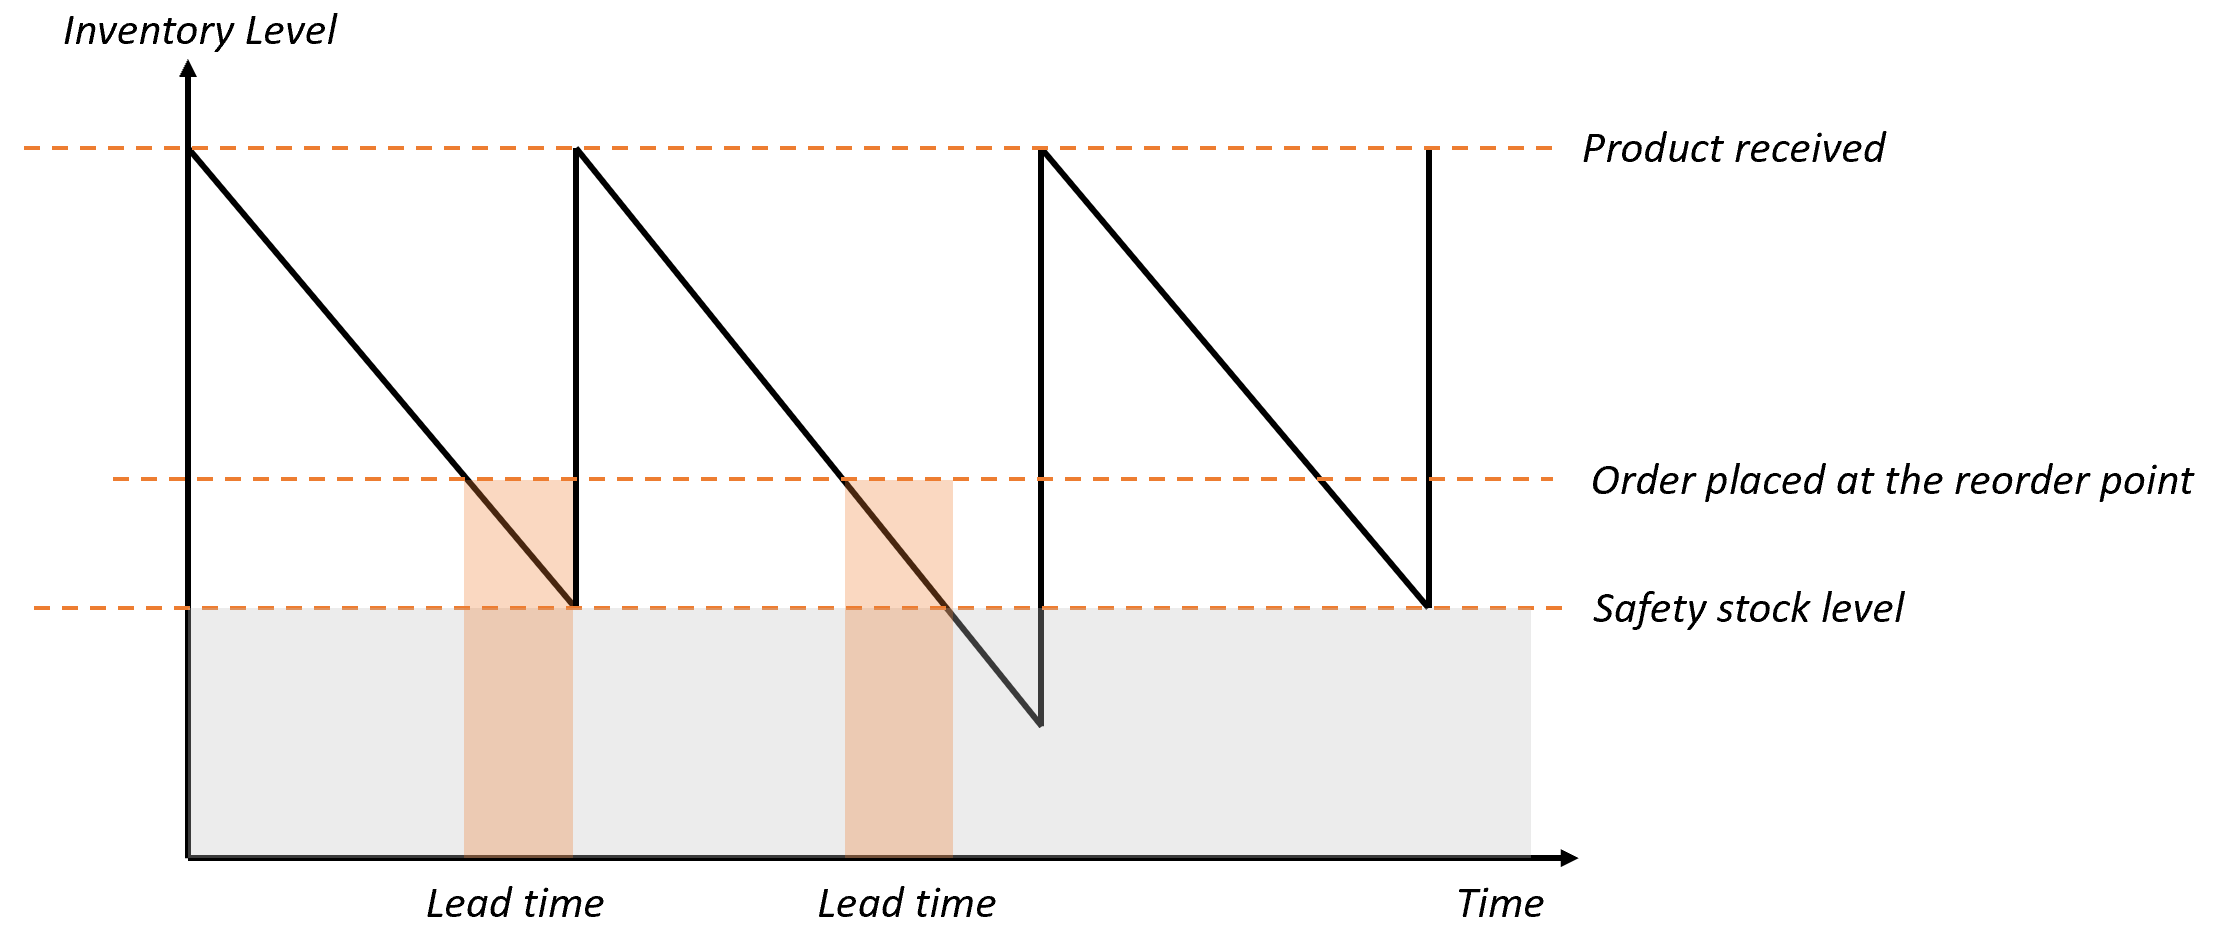
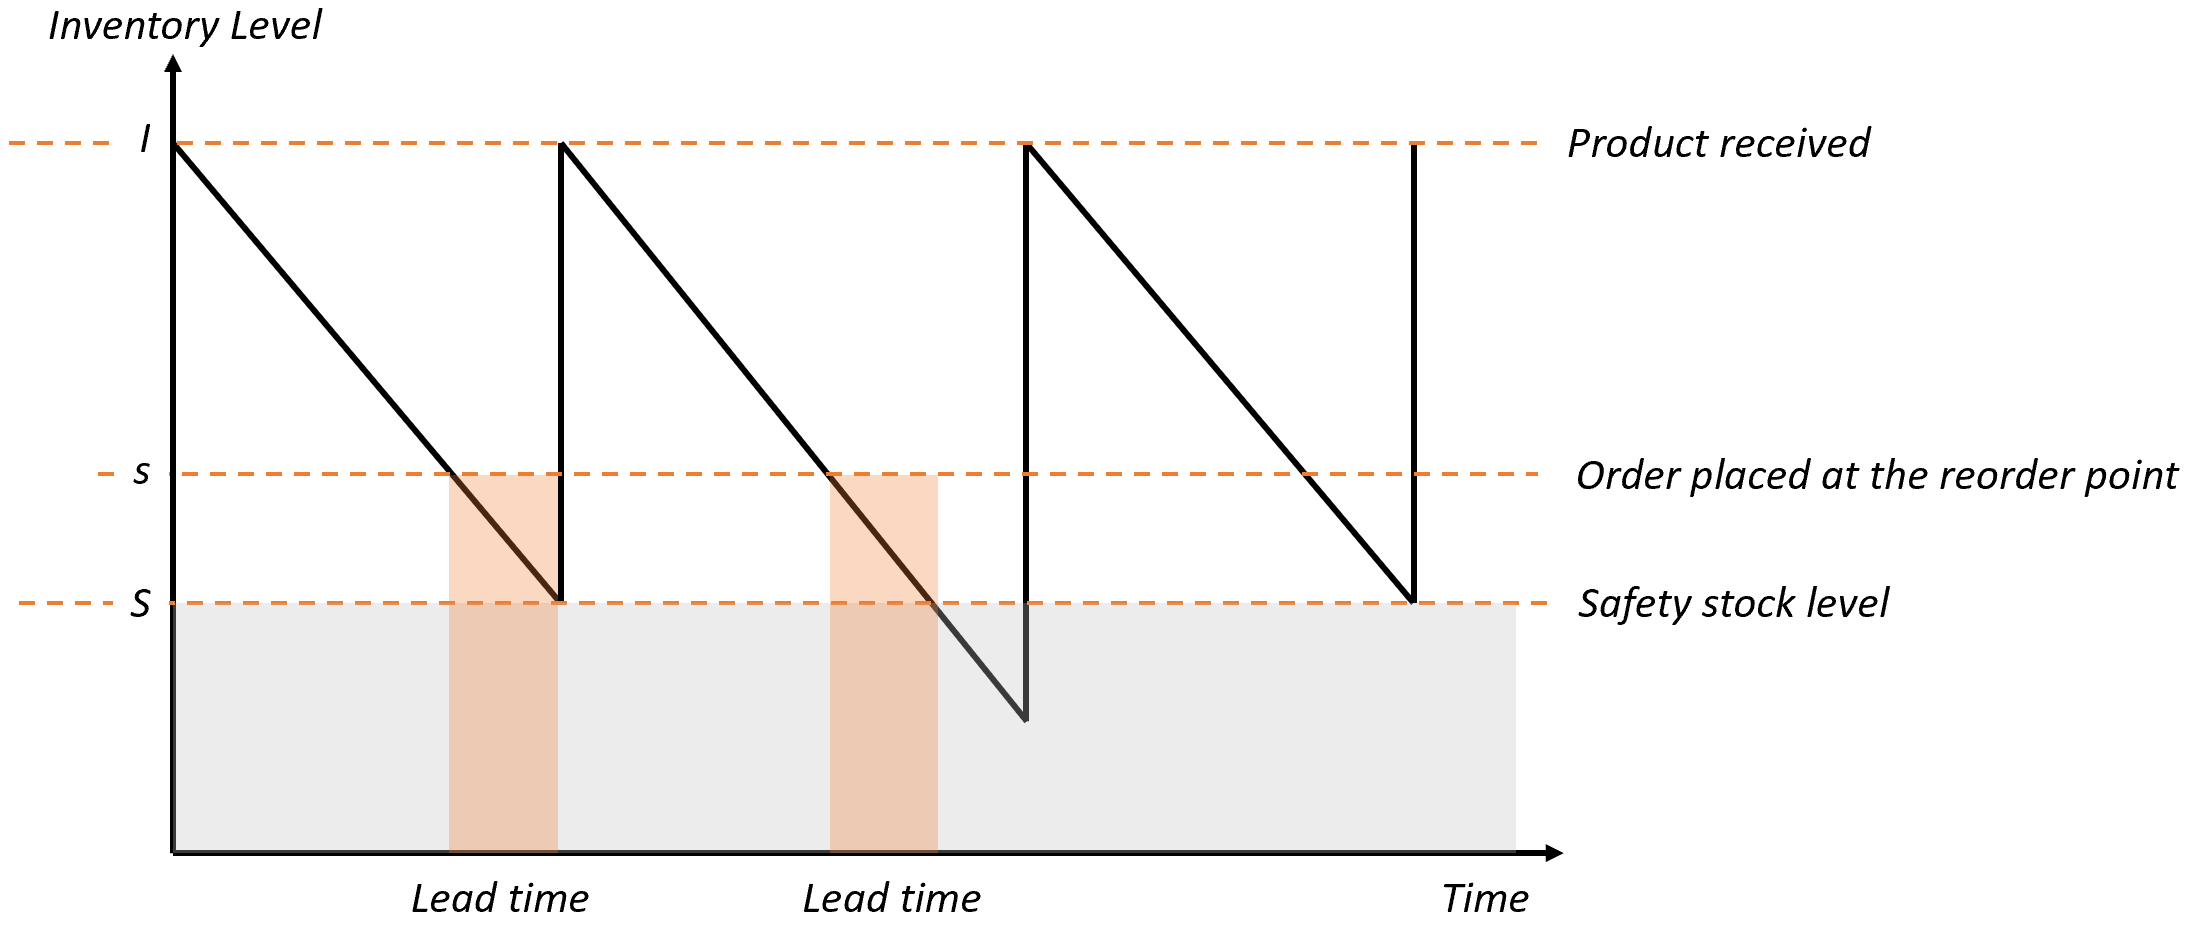
Writing s,S policy

diff --git a/_posts/2020-4-10-Multi-Period Inventory Planning with Stochastic Demand Using Python.md b/_posts/2020-4-10-Multi-Period Inventory Planning with Stochastic Demand Using Python.md
@@ -27,7 +27,7 @@ transfers to their regional warehouse (see Figure 1).
 |:--:| 
 | *Figure 1: Supply chain* |
 
-Figure 2 illustrates current inventory cycle at PCC's warehouse.
+Figure 2 illustrates PCCs inventory policy.
 After PCC receives orders from retailer, 
 PCC prepares (picks) orders. When the orders are ready,
 retailer picks them from the PCC's warehouse. 
@@ -141,7 +141,30 @@ of the desired quantity.
 
 ## Simulation Design
 
-We now develop a Monte Carlo simulation algorithm for the inventory management problem.
+We now develop a Monte Carlo simulation algorithm 
+for the inventory management problem.
+
+| ![_config.yml]({{ site.baseurl }}/images/Multi-Period Inventory Planning with Stochastic Demand Using Python/inventory_policy.PNG) | 
+|:--:| 
+| *Figure 2: Inventory policy* |
+
+Recall Figure 2. Let $$P$$ be the set of products and 
+$$T$$ be set of time periods. 
+Let $$I_{tk}$$ be be the inventory level of product $$k$$ at time $t$, 
+$$s_k$$ be the reorder point of product $$k$$, and
+$$S_k$$ be the minimum safety stock level of product $$k$$. 
+For all $$k\in P$$, 
+PCC orders $$Z_{tk}$$ units of product $$k$$ from the manufacturing plant
+at time $$t$$ where
+
+
+
+
+
+
+
+
+
 The following is the algorithm steps. 
 
 1. For each product, determine order arrivals based on arrival distribution.
